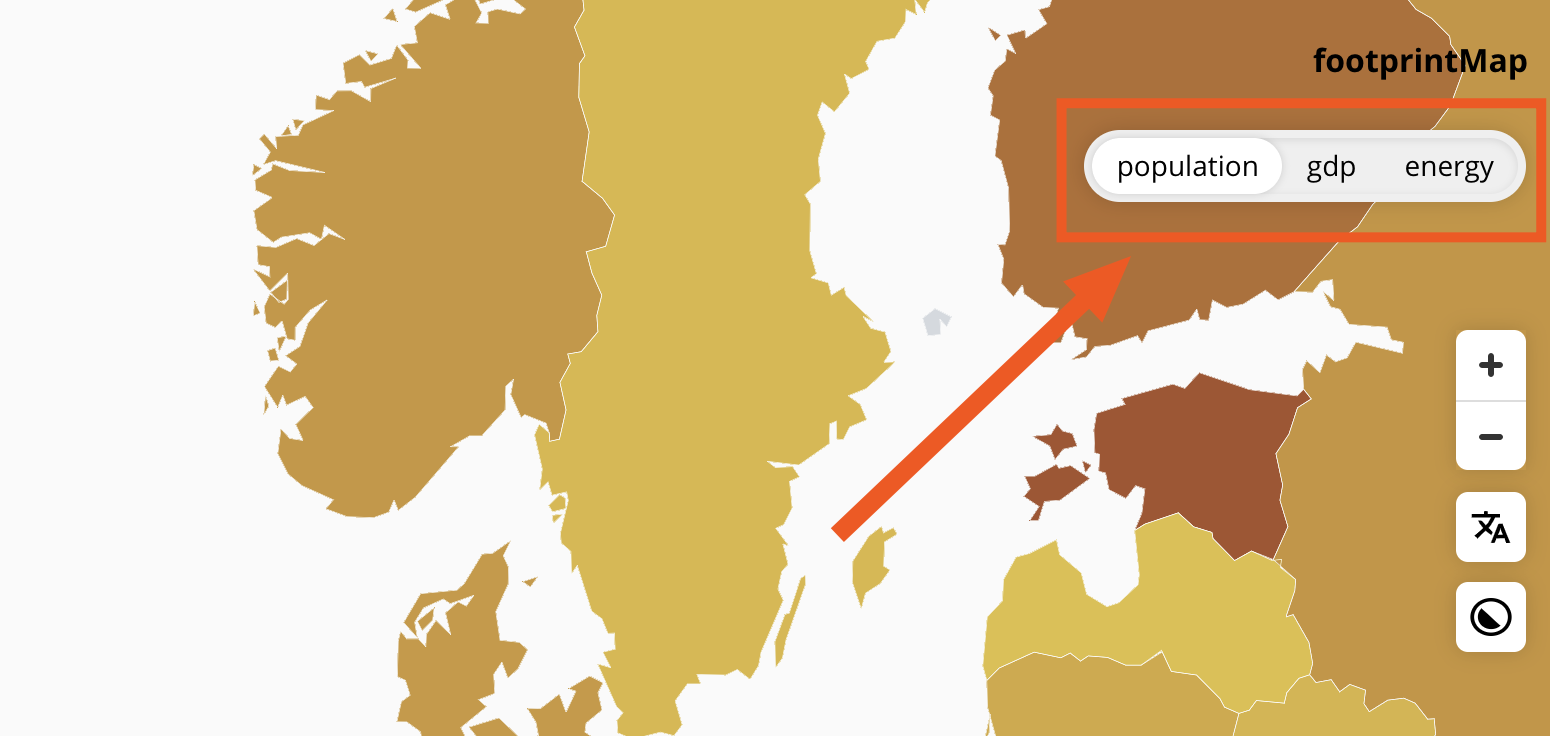
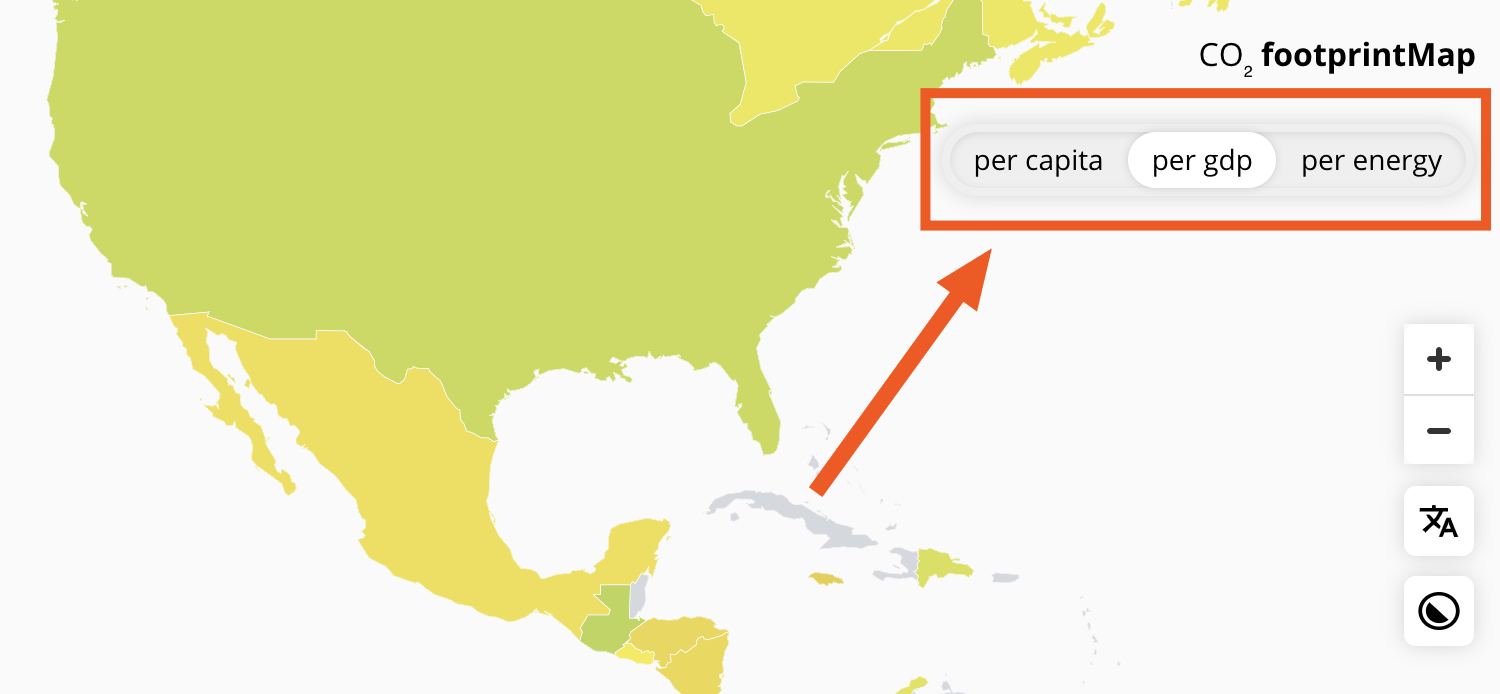
Fixes

diff --git a/web/src/layout/main.js b/web/src/layout/main.js
@@ -95,9 +95,9 @@ const Main = ({
               <Toggle
                 onChange={value => dispatchApplication('carbonIntensityDomain', value)}
                 options={[
-                  { value: CARBON_INTENSITY_DOMAIN.POPULATION, label: 'population' },
-                  { value: CARBON_INTENSITY_DOMAIN.GDP, label: 'gdp' },
-                  { value: CARBON_INTENSITY_DOMAIN.ENERGY, label: 'energy' },
+                  { value: CARBON_INTENSITY_DOMAIN.POPULATION, label: 'per capita' },
+                  { value: CARBON_INTENSITY_DOMAIN.GDP, label: 'per gdp' },
+                  { value: CARBON_INTENSITY_DOMAIN.ENERGY, label: 'per energy' },
                 ]}
                 value={carbonIntensityDomain}
               />

diff --git a/web/src/layout/header.js b/web/src/layout/header.js
@@ -12,7 +12,7 @@ export default connect(mapStateToProps)(props => (
     <div id="header-content" className={props.brightModeEnabled ? 'brightmode' : null}>
       <div className="logo">
         <span className="maintitle small-screen-hidden">
-          <span className="live" style={{ fontWeight: 'bold' }}>footprintMap</span>
+          CO₂ <span className="live" style={{ fontWeight: 'bold' }}>footprintMap</span>
         </span>
       </div>
     </div>
